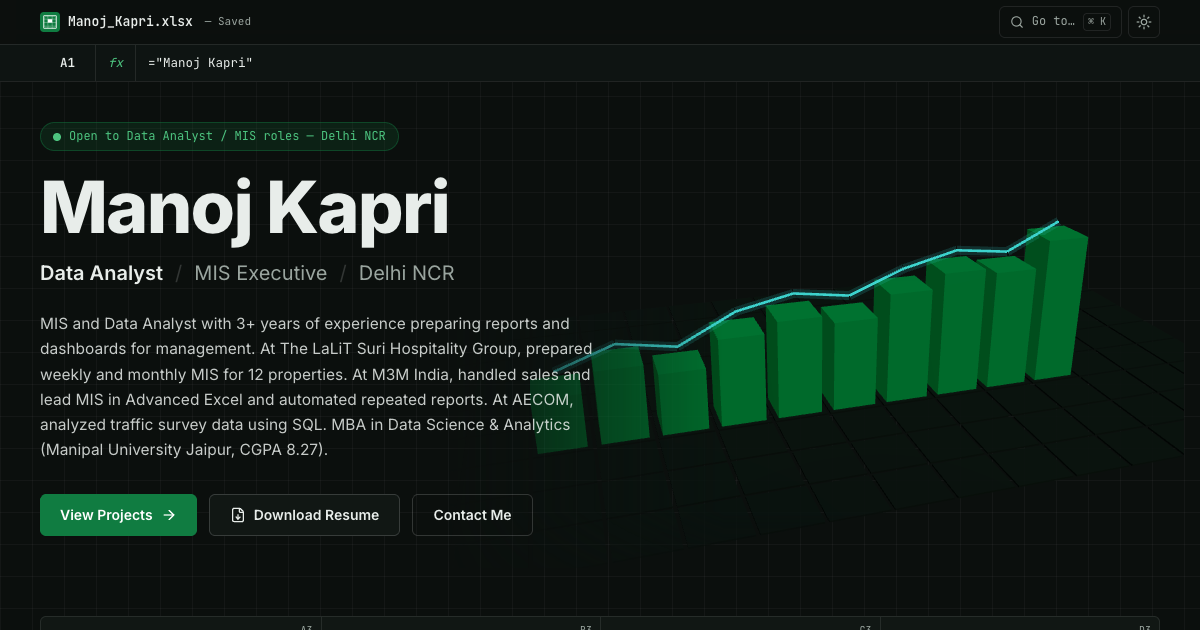
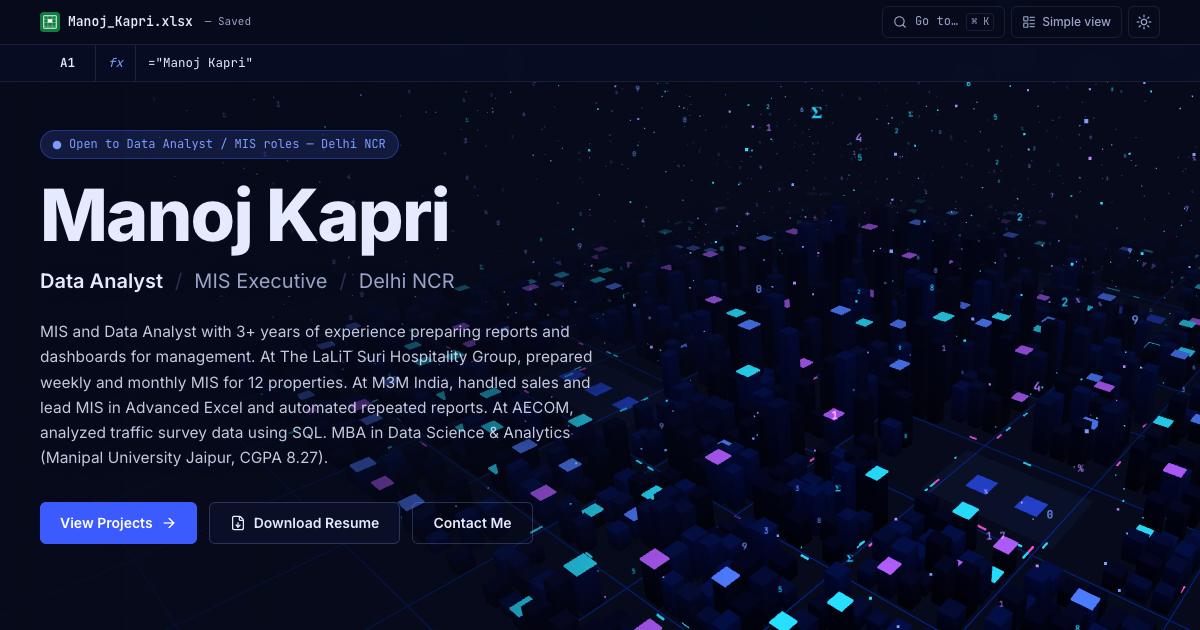
Neon city: blue night theme, floating data particles; fix mobile overflow
- Site + city palette switched to navy / neon blue / purple (Excel icon kept)
- Floating glowing dots and drifting digits (0-9, %, Σ, +) through the city
- #main overflow-x: clip — slide-in cards no longer widen the page on phones
- New OG image

Lighthouse: desktop 99/100/100/100, mobile 93/100/100/100

diff --git a/src/components/DataCity.tsx b/src/components/DataCity.tsx
@@ -62,26 +62,30 @@ type Palette = ReturnType<typeof palette>;
 const palette = (light: boolean) =>
   light
     ? {
-        bg: '#f4f6f3',
-        building: ['#dfe6e0', '#d5ddd7', '#e8ede9', '#cfd9d2'],
-        roof: ['#107c41', '#0b817c'],
-        cell: '#d2dad4',
-        section: '#aebcb2',
-        traffic: ['#107c41', '#0b817c'],
-        tower: '#138a49',
-        towerEmissive: '#0b5a2f',
-        line: '#08706b',
+        bg: '#f3f5fc',
+        building: ['#e2e7f5', '#d8def0', '#eaeef9', '#cfd6ee'],
+        roof: ['#4d6bff', '#9b5cff', '#0891b2'],
+        cell: '#d5dcef',
+        section: '#aab6dc',
+        traffic: ['#2f4fe0', '#8b5cf6'],
+        tower: '#3b5bff',
+        towerEmissive: '#2a3fd0',
+        line: '#8b5cf6',
+        particles: ['#4d6bff', '#8b5cf6', '#0891b2'],
+        additive: false,
       }
     : {
-        bg: '#0b0f0d',
-        building: ['#20342a', '#27402f', '#1c2e24', '#2e4a39'],
-        roof: ['#2fd07a', '#2cc2bc'],
-        cell: '#15201a',
-        section: '#1f3a2b',
-        traffic: ['#4cc47f', '#40d6cf'],
-        tower: '#138a49',
-        towerEmissive: '#0e6b38',
-        line: '#40d6cf',
+        bg: '#060a1a',
+        building: ['#141b3d', '#192250', '#10163a', '#1e2860'],
+        roof: ['#4d7cff', '#b35cff', '#27e0ff'],
+        cell: '#121a3c',
+        section: '#27358a',
+        traffic: ['#27e0ff', '#ff4fd8'],
+        tower: '#3d63ff',
+        towerEmissive: '#2b44e0',
+        line: '#ff4fd8',
+        particles: ['#7c9dff', '#c084fc', '#27e0ff'],
+        additive: true,
       };
 
 /* ── Generic skyline ─────────────────────────────────────────────────────── */
@@ -147,7 +151,7 @@ function Skyline({ pal }: { pal: Palette }) {
     roofList.forEach((b, i) => {
       m.makeScale(b.w * 1.02, 0.08, b.d * 1.02).setPosition(b.x, b.h, b.z);
       roofs.current!.setMatrixAt(i, m);
-      roofs.current!.setColorAt(i, c.set(pal.roof[i % 2]));
+      roofs.current!.setColorAt(i, c.set(pal.roof[i % pal.roof.length]));
     });
     roofs.current!.instanceMatrix.needsUpdate = true;
     if (roofs.current!.instanceColor) roofs.current!.instanceColor.needsUpdate = true;
@@ -212,6 +216,117 @@ function Traffic({ pal }: { pal: Palette }) {
   );
 }
 
+/* ── Floating data particles: glowing dots + drifting digits ─────────────── */
+
+const GLYPHS = ['0', '1', '2', '3', '4', '5', '6', '7', '8', '9', '%', 'Σ', '+'];
+
+function glyphTexture(ch: string) {
+  const c = document.createElement('canvas');
+  c.width = c.height = 64;
+  const g = c.getContext('2d')!;
+  g.fillStyle = '#fff';
+  g.font = '600 46px "JetBrains Mono Variable", "JetBrains Mono", monospace';
+  g.textAlign = 'center';
+  g.textBaseline = 'middle';
+  g.fillText(ch, 32, 34);
+  const t = new THREE.CanvasTexture(c);
+  t.colorSpace = THREE.SRGBColorSpace;
+  return t;
+}
+
+type Drifter = { x: number; y: number; z: number; speed: number; sway: number; phase: number };
+
+function makeDrifters(n: number, seed: number): Drifter[] {
+  const r = rng(seed);
+  return Array.from({ length: n }, () => ({
+    x: (r() - 0.5) * SIZE,
+    y: 0.3 + r() * 24,
+    z: (r() - 0.5) * SIZE,
+    speed: 0.25 + r() * 0.9,
+    sway: 0.2 + r() * 0.5,
+    phase: r() * Math.PI * 2,
+  }));
+}
+
+function DataParticles({ pal }: { pal: Palette }) {
+  const DOTS = 1100;
+  const PER_GLYPH = 34;
+  const dots = useMemo(() => makeDrifters(DOTS, 11), []);
+  const glyphs = useMemo(() => GLYPHS.map((ch, i) => ({ ch, tex: glyphTexture(ch), pts: makeDrifters(PER_GLYPH, 100 + i) })), []);
+  useEffect(() => () => glyphs.forEach((g) => g.tex.dispose()), [glyphs]);
+
+  const dotGeo = useMemo(() => {
+    const g = new THREE.BufferGeometry();
+    g.setAttribute('position', new THREE.BufferAttribute(new Float32Array(DOTS * 3), 3));
+    g.setAttribute('color', new THREE.BufferAttribute(new Float32Array(DOTS * 3), 3));
+    return g;
+  }, []);
+  const glyphGeos = useMemo(
+    () => glyphs.map(() => {
+      const g = new THREE.BufferGeometry();
+      g.setAttribute('position', new THREE.BufferAttribute(new Float32Array(PER_GLYPH * 3), 3));
+      return g;
+    }),
+    [glyphs],
+  );
+
+  useLayoutEffect(() => {
+    const col = dotGeo.getAttribute('color') as THREE.BufferAttribute;
+    const c = new THREE.Color();
+    for (let i = 0; i < DOTS; i++) {
+      c.set(pal.particles[i % pal.particles.length]);
+      col.setXYZ(i, c.r, c.g, c.b);
+    }
+    col.needsUpdate = true;
+  }, [dotGeo, pal]);
+
+  useFrame((state, dt) => {
+    const step = Math.min(dt, 0.05);
+    const time = state.clock.elapsedTime;
+    const move = (d: Drifter) => {
+      d.y += d.speed * step;
+      if (d.y > 26) d.y = 0.3;
+    };
+    const pos = dotGeo.getAttribute('position') as THREE.BufferAttribute;
+    dots.forEach((d, i) => {
+      move(d);
+      pos.setXYZ(i, d.x + Math.sin(time * 0.6 + d.phase) * d.sway, d.y, d.z);
+    });
+    pos.needsUpdate = true;
+    glyphs.forEach((g, gi) => {
+      const gp = glyphGeos[gi].getAttribute('position') as THREE.BufferAttribute;
+      g.pts.forEach((d, i) => {
+        move(d);
+        gp.setXYZ(i, d.x + Math.sin(time * 0.5 + d.phase) * d.sway, d.y, d.z);
+      });
+      gp.needsUpdate = true;
+    });
+  });
+
+  return (
+    <group>
+      <points geometry={dotGeo} frustumCulled={false}>
+        <pointsMaterial size={0.17} sizeAttenuation vertexColors transparent opacity={0.95} depthWrite={false} blending={pal.additive ? THREE.AdditiveBlending : THREE.NormalBlending} toneMapped={false} />
+      </points>
+      {glyphs.map((g, i) => (
+        <points key={g.ch} geometry={glyphGeos[i]} frustumCulled={false}>
+          <pointsMaterial
+            map={g.tex}
+            size={1.05}
+            sizeAttenuation
+            color={pal.particles[i % pal.particles.length]}
+            transparent
+            opacity={0.9}
+            depthWrite={false}
+            blending={pal.additive ? THREE.AdditiveBlending : THREE.NormalBlending}
+            toneMapped={false}
+          />
+        </points>
+      ))}
+    </group>
+  );
+}
+
 /* ── Landmarks: one district per section ─────────────────────────────────── */
 
 function Tower({ x, z, h, label, sub, pal, active, delay }: {
@@ -228,7 +343,7 @@ function Tower({ x, z, h, label, sub, pal, active, delay }: {
     const e = 1 - Math.pow(1 - grow.current, 3);
     const breathe = 1 + Math.sin(state.clock.elapsedTime * 1.4 + x) * 0.015;
     if (mesh.current) mesh.current.scale.y = Math.max(0.02, h * e * breathe);
-    if (mat.current) mat.current.emissiveIntensity = THREE.MathUtils.lerp(mat.current.emissiveIntensity, active ? 0.9 : 0.3, 0.06);
+    if (mat.current) mat.current.emissiveIntensity = THREE.MathUtils.lerp(mat.current.emissiveIntensity, active ? 1.15 : 0.35, 0.06);
   });
 
   return (
@@ -386,7 +501,7 @@ export default function DataCity({ onReady }: { onReady: () => void }) {
         <color attach="background" args={[pal.bg]} />
         <fog attach="fog" args={[pal.bg, 28, light ? 95 : 88]} />
         <ambientLight intensity={light ? 1.05 : 0.5} />
-        <hemisphereLight args={[light ? '#ffffff' : '#9fd9c0', light ? '#c9d3cc' : '#07110c', light ? 0.6 : 0.45]} />
+        <hemisphereLight args={[light ? '#ffffff' : '#8fa4ff', light ? '#c9d0e6' : '#050818', light ? 0.6 : 0.5]} />
         <directionalLight position={[18, 30, 12]} intensity={light ? 1.2 : 0.9} />
 
         <Grid
@@ -404,6 +519,7 @@ export default function DataCity({ onReady }: { onReady: () => void }) {
         />
         <Skyline pal={pal} />
         <Traffic pal={pal} />
+        <DataParticles pal={pal} />
         {(['skills', 'experience', 'projects', 'education'] as const).map((id) => (
           <District key={id} id={id} pal={pal} active={active === id} />
         ))}

diff --git a/src/index.css b/src/index.css
@@ -7,36 +7,36 @@
 /* ── Theme tokens ─────────────────────────────────────────────────────────── */
 :root,
 .dark {
-  --bg: #0b0f0d;
-  --surface: #111714;
-  --surface-2: #17201b;
-  --line: rgba(255, 255, 255, 0.09);
-  --line-strong: rgba(255, 255, 255, 0.16);
-  --grid: rgba(255, 255, 255, 0.035);
-  --ink: #e8edea;
-  --muted: #9aa59f;
-  --accent: #107c41;          /* Excel green — fills */
-  --accent-ink: #4cc47f;      /* green for text/lines on dark (AA) */
-  --accent-soft: rgba(16, 124, 65, 0.16);
-  --teal: #2cc2bc;
-  --focus: #4cc47f;
+  --bg: #060a1a;
+  --surface: #0d1330;
+  --surface-2: #141b40;
+  --line: rgba(150, 170, 255, 0.12);
+  --line-strong: rgba(150, 170, 255, 0.24);
+  --grid: rgba(120, 150, 255, 0.05);
+  --ink: #e6eaff;
+  --muted: #9aa3c7;
+  --accent: #3b5bff;          /* neon blue — fills */
+  --accent-ink: #7c9dff;      /* blue for text/lines on dark (AA) */
+  --accent-soft: rgba(80, 110, 255, 0.16);
+  --teal: #c084fc;            /* secondary accent (neon purple) */
+  --focus: #7c9dff;
   color-scheme: dark;
 }
 
 .light {
-  --bg: #fafaf7;
+  --bg: #f7f8fd;
   --surface: #ffffff;
-  --surface-2: #f1f4f0;
-  --line: rgba(16, 24, 20, 0.1);
-  --line-strong: rgba(16, 24, 20, 0.2);
-  --grid: rgba(16, 24, 20, 0.045);
-  --ink: #16201b;
-  --muted: #56615b;
-  --accent: #107c41;
-  --accent-ink: #0c6535;
-  --accent-soft: rgba(16, 124, 65, 0.1);
-  --teal: #0b817c;
-  --focus: #107c41;
+  --surface-2: #eef1fb;
+  --line: rgba(20, 30, 80, 0.1);
+  --line-strong: rgba(20, 30, 80, 0.2);
+  --grid: rgba(20, 30, 80, 0.045);
+  --ink: #121733;
+  --muted: #545b7a;
+  --accent: #2f4fe0;
+  --accent-ink: #2440c4;
+  --accent-soft: rgba(47, 79, 224, 0.1);
+  --teal: #7c3aed;
+  --focus: #2f4fe0;
   color-scheme: light;
 }
 
@@ -82,6 +82,9 @@ body {
   -webkit-font-smoothing: antialiased;
   overflow-x: hidden;
 }
+
+/* Slide-in animations start off to the side; never let them widen the page. */
+#main { overflow-x: clip; }
 
 ::selection { background: var(--accent-soft); color: var(--accent-ink); }
 
@@ -145,12 +148,12 @@ html.city body { background-image: none; background-color: transparent; }
 
 /* Panels become frosted glass so the city shows through */
 html.city.dark, html.city:not(.light) {
-  --surface: rgba(14, 20, 17, 0.86);
-  --surface-2: rgba(28, 40, 33, 0.86);
+  --surface: rgba(10, 15, 40, 0.86);
+  --surface-2: rgba(20, 27, 64, 0.86);
 }
 html.city.light {
   --surface: rgba(255, 255, 255, 0.88);
-  --surface-2: rgba(241, 244, 240, 0.8);
+  --surface-2: rgba(238, 241, 251, 0.85);
 }
 html.city .bg-surface,
 html.city [class*="bg-surface/"],

diff --git a/index.html b/index.html
@@ -6,8 +6,8 @@
 <title>Manoj Kapri — Data Analyst | MIS Executive</title>
 <meta name="description" content="Manoj Kapri — Data Analyst | MIS Executive. MBA in Data Science &amp; Analytics. SQL, Python, Power BI, Advanced Excel, MIS reporting &amp; dashboard automation across Delhi NCR.">
 <meta name="author" content="Manoj Kapri">
-<meta name="theme-color" content="#0B0F0D" media="(prefers-color-scheme: dark)">
-<meta name="theme-color" content="#FAFAF7" media="(prefers-color-scheme: light)">
+<meta name="theme-color" content="#060a1a" media="(prefers-color-scheme: dark)">
+<meta name="theme-color" content="#f7f8fd" media="(prefers-color-scheme: light)">
 <link rel="canonical" href="https://manoj-kapri-portfolio.vercel.app/">
 <link rel="icon" type="image/svg+xml" href="/favicon.svg">
 

diff --git a/src/components/ForecastChart.tsx b/src/components/ForecastChart.tsx
@@ -26,7 +26,7 @@ export default function ForecastChart({ seed = 0 }: { seed?: number }) {
             labelStyle={{ color: 'var(--ink)' }}
           />
           <Legend wrapperStyle={{ fontSize: 12 }} />
-          <Line type="monotone" dataKey="Actual" stroke="#1f9d58" strokeWidth={2.5} dot={false} connectNulls={false} />
+          <Line type="monotone" dataKey="Actual" stroke="var(--accent-ink)" strokeWidth={2.5} dot={false} connectNulls={false} />
           <Line type="monotone" dataKey="Forecast" stroke="var(--teal)" strokeWidth={2} strokeDasharray="5 4" dot={false} />
         </LineChart>
       </ResponsiveContainer>

diff --git a/src/components/Hero.tsx b/src/components/Hero.tsx
@@ -16,8 +16,8 @@ export function HeroFallback() {
     <svg viewBox={`0 0 ${w} ${h}`} className="h-full w-full" aria-hidden="true" preserveAspectRatio="xMidYMax meet">
       <defs>
         <linearGradient id="fb-bar" x1="0" y1="0" x2="0" y2="1">
-          <stop offset="0" stopColor="#1f9d58" />
-          <stop offset="1" stopColor="#107C41" stopOpacity="0.35" />
+          <stop offset="0" stopColor="var(--accent-ink)" />
+          <stop offset="1" stopColor="var(--accent)" stopOpacity="0.35" />
         </linearGradient>
       </defs>
       {Array.from({ length: 9 }).map((_, r) => (
